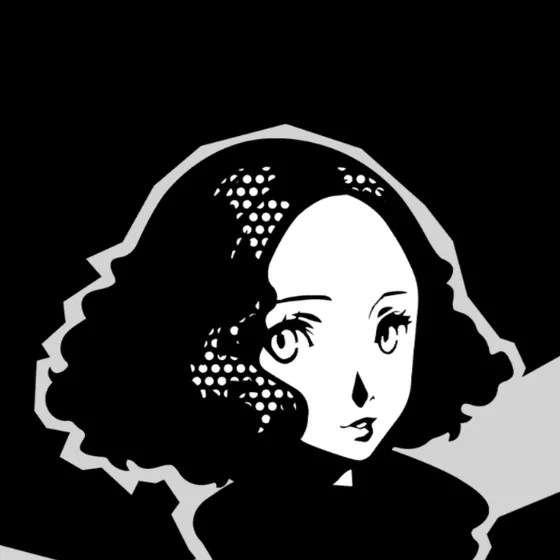
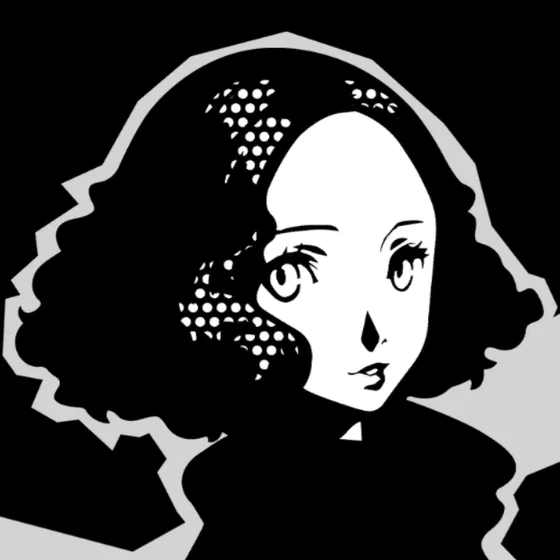
Volver al mismo lugar, seguimiento de progreso en orden y siluetas reencuadradas
- Botón «Volver» en las fichas de confidente y de Persona: vuelve a la lista en el
  mismo lugar y con los mismos filtros (también con el botón atrás del navegador)
- Seguimiento: los rangos se marcan en orden, pasa solo al siguiente, botón para
  reiniciar y se guarda en el navegador; si el rango 1 no tiene respuestas, se da por hecho
- Igor, Morgana, Makoto, Haru, Ann, Caroline y Justine y Oda: más zoom y la cara más arriba
- Consejo de Akechi sin spoiler

Claude-Session: https://claude.ai/code/session_01TLD9DxtzdAPGjt2ektcgBd

Changed region(s): [[0.0, 0.0607, 1.0, 1.0]]

diff --git a/src/games/p5r/pages/ConfidantProfile.tsx b/src/games/p5r/pages/ConfidantProfile.tsx
@@ -1,5 +1,6 @@
 import { useEffect, useState } from 'react';
 import { Link, useParams } from 'react-router-dom';
+import { BackButton } from '../../../shared/components/BackButton';
 import { ImagePlaceholder } from '../../../shared/components/ImagePlaceholder';
 import { confidantImage } from '../services/images';
 import { getArcana } from '../data/arcana';
@@ -222,12 +223,43 @@ function UltimateBox({ summary }: { summary: ConfidantSummary }) {
   );
 }
 
+/* ---------- Seguimiento de progreso (se guarda en este navegador) ---------- */
+
+interface Progress {
+  tracking: boolean;
+  reached: number;
+}
+const progressKey = (id: string) => `pgr.progress.${id}`;
+function loadProgress(id: string): Progress {
+  try {
+    const raw = localStorage.getItem(progressKey(id));
+    if (raw) return JSON.parse(raw) as Progress;
+  } catch {
+    /* sin almacenamiento */
+  }
+  return { tracking: false, reached: 0 };
+}
+function saveProgress(id: string, p: Progress) {
+  try {
+    localStorage.setItem(progressKey(id), JSON.stringify(p));
+  } catch {
+    /* sin almacenamiento: el progreso dura mientras la página esté abierta */
+  }
+}
+
 export default function ConfidantProfile() {
   const { confidantId = '' } = useParams();
   const [data, setData] = useState<Confidant | null | undefined>(undefined);
   const [sel, setSel] = useState(2);
   const [tracking, setTracking] = useState(false);
   const [reached, setReached] = useState(0);
+
+  useEffect(() => {
+    const saved = loadProgress(confidantId);
+    setTracking(saved.tracking);
+    setReached(saved.reached);
+    setSel(saved.tracking ? Math.min(saved.reached + 1, 10) : 2);
+  }, [confidantId]);
 
   useEffect(() => {
     let alive = true;
@@ -255,8 +287,43 @@ export default function ConfidantProfile() {
   const ranks = Array.from({ length: maxRank }, (_, i) => i + 1);
   const thiefPersona = summary.persona ? getPersona(summary.persona) : undefined;
 
+  // Un rango «sin respuestas» (nada que elegir en la ficha) se puede dar por hecho al empezar
+  const hasAnswers = (n: number) =>
+    data?.ranks.find((r) => r.rank === n)?.conversations.some((c) => c.kind !== 'mementos') ?? false;
+  const startReached = () => (hasAnswers(1) ? 0 : 1);
+  const persist = (t: boolean, r: number) => saveProgress(confidantId, { tracking: t, reached: r });
+  const goTo = (r: number) => setSel(Math.min(r + 1, maxRank));
+
+  const toggleTracking = () => {
+    if (tracking) {
+      setTracking(false);
+      persist(false, reached);
+      return;
+    }
+    const r = reached > 0 ? reached : startReached();
+    setTracking(true);
+    setReached(r);
+    goTo(r);
+    persist(true, r);
+  };
+  const markReached = () => {
+    if (sel !== reached + 1) return;
+    setReached(sel);
+    persist(true, sel);
+    if (sel < maxRank) setSel(sel + 1);
+  };
+  const resetProgress = () => {
+    const r = startReached();
+    setReached(r);
+    goTo(r);
+    persist(true, r);
+  };
+
   return (
     <article>
+      <div className={`container ${styles.back}`}>
+        <BackButton fallback="/p5r/confidentes" />
+      </div>
       <section className={styles.hero}>
         <div className={styles.heroSlab} aria-hidden="true" />
         <div className={`container ${styles.heroInner}`}>
@@ -287,7 +354,7 @@ export default function ConfidantProfile() {
                 role="switch"
                 aria-checked={tracking}
                 aria-label="Seguimiento de progreso"
-                onClick={() => setTracking((v) => !v)}
+                onClick={toggleTracking}
                 className={`${styles.switch} ${tracking ? styles.switchOn : ''}`}
               >
                 <span />
@@ -295,7 +362,7 @@ export default function ConfidantProfile() {
               <span className={styles.trackLabel}>
                 Seguimiento de progreso: {tracking ? 'activado' : 'desactivado'}
               </span>
-              <span className={styles.trackNote}>Vista previa · se guardará con tu cuenta (v2)</span>
+              <span className={styles.trackNote}>Se guarda en este navegador · con tu cuenta en la v2</span>
             </div>
             )}
           </div>
@@ -370,8 +437,23 @@ export default function ConfidantProfile() {
             <span className={styles.progressTrack}>
               <span style={{ width: `${(reached / maxRank) * 100}%` }} />
             </span>
-            <button type="button" className="btn btn--accent" onClick={() => setReached((r) => Math.max(r, sel))}>
-              Marcar rango {sel} como alcanzado
+            {reached >= maxRank ? (
+              <span className={styles.progressDone}>¡Confidente al máximo!</span>
+            ) : sel === reached + 1 ? (
+              <button type="button" className="btn btn--accent" onClick={markReached}>
+                Marcar rango {sel} como alcanzado
+              </button>
+            ) : sel <= reached ? (
+              <button type="button" className="btn btn--accent" disabled>
+                Rango {sel} alcanzado ✓
+              </button>
+            ) : (
+              <button type="button" className="btn btn--light" onClick={() => setSel(reached + 1)}>
+                Primero el rango {reached + 1}: ir
+              </button>
+            )}
+            <button type="button" className={`btn btn--light ${styles.resetBtn}`} onClick={resetProgress}>
+              Reiniciar progreso
             </button>
           </div>
         )}

diff --git a/src/app/ScrollToTop.tsx b/src/app/ScrollToTop.tsx
@@ -1,11 +1,55 @@
-import { useEffect } from 'react';
-import { useLocation } from 'react-router-dom';
+import { useEffect, useLayoutEffect } from 'react';
+import { useLocation, useNavigationType } from 'react-router-dom';
 
-/** Vuelve arriba de todo al cambiar de página. */
+const KEY = (k: string) => `pgr.scroll.${k}`;
+
+function read(key: string): number {
+  try {
+    return Number(sessionStorage.getItem(KEY(key))) || 0;
+  } catch {
+    return 0;
+  }
+}
+
+/**
+ * Al cambiar de página vuelve arriba de todo. Si se vuelve atrás (o adelante)
+ * con el navegador o con el botón «Volver», deja la página donde estaba.
+ */
 export function ScrollToTop() {
-  const { pathname } = useLocation();
+  const location = useLocation();
+  const navType = useNavigationType();
+
+  // Guarda la posición de esta página mientras se recorre
+  useLayoutEffect(() => {
+    const save = () => {
+      try {
+        sessionStorage.setItem(KEY(location.key), String(Math.round(window.scrollY)));
+      } catch {
+        /* sin almacenamiento: no pasa nada */
+      }
+    };
+    window.addEventListener('scroll', save, { passive: true });
+    return () => window.removeEventListener('scroll', save);
+  }, [location.key]);
+
   useEffect(() => {
-    window.scrollTo(0, 0);
-  }, [pathname]);
+    if (navType !== 'POP') {
+      window.scrollTo(0, 0);
+      return;
+    }
+    // La página puede tardar en armarse: se reintenta hasta que haya lugar para bajar
+    const y = read(location.key);
+    let tries = 0;
+    const id = window.setInterval(() => {
+      tries++;
+      const room = document.documentElement.scrollHeight - window.innerHeight;
+      if (room >= y || tries > 40) {
+        window.scrollTo(0, y);
+        window.clearInterval(id);
+      }
+    }, 50);
+    return () => window.clearInterval(id);
+  }, [location.key, navType]);
+
   return null;
 }

diff --git a/src/games/p5r/pages/Catalog.tsx b/src/games/p5r/pages/Catalog.tsx
@@ -1,4 +1,5 @@
-import { useMemo, useState } from 'react';
+import { useMemo } from 'react';
+import { useSessionState } from '../../../shared/hooks/useSessionState';
 import { CalculatorHeader } from '../components/CalculatorHeader';
 import { PersonaCard } from '../components/PersonaCard';
 import { ARCANAS } from '../data/arcana';
@@ -13,9 +14,9 @@ import {
 import styles from './Catalog.module.css';
 
 export default function Catalog() {
-  const [f, setF] = useState<CatalogFilters>(DEFAULT_FILTERS);
+  const [f, setF] = useSessionState<CatalogFilters>('catalog.filters', DEFAULT_FILTERS);
   const all = getCatalogPersonas();
-  const [spoilerFilters, setSpoilerFilters] = useState(false);
+  const [spoilerFilters, setSpoilerFilters] = useSessionState('catalog.spoilerFilters', false);
   const list = useMemo(() => filterPersonas(all, f), [all, f]);
 
   const set = <K extends keyof CatalogFilters>(key: K, value: CatalogFilters[K]) =>

diff --git a/src/games/p5r/pages/Confidants.tsx b/src/games/p5r/pages/Confidants.tsx
@@ -1,4 +1,5 @@
-import { useMemo, useState } from 'react';
+import { useMemo } from 'react';
+import { useSessionState } from '../../../shared/hooks/useSessionState';
 import { Link } from 'react-router-dom';
 import { ImagePlaceholder } from '../../../shared/components/ImagePlaceholder';
 import { confidantImage } from '../services/images';
@@ -19,9 +20,9 @@ const TAG_CLASS: Partial<Record<ConfidantTag, string>> = {
 const isSpecial = (kind: string) => kind !== 'normal';
 
 export default function Confidants() {
-  const [group, setGroup] = useState<Group>('all');
-  const [tag, setTag] = useState<ConfidantTag | null>(null);
-  const [q, setQ] = useState('');
+  const [group, setGroup] = useSessionState<Group>('confidants.group', 'all');
+  const [tag, setTag] = useSessionState<ConfidantTag | null>('confidants.tag', null);
+  const [q, setQ] = useSessionState('confidants.q', '');
 
   const counts = {
     all: CONFIDANTS.length,

diff --git a/src/games/p5r/pages/PersonaProfile.tsx b/src/games/p5r/pages/PersonaProfile.tsx
@@ -1,6 +1,7 @@
 import { useMemo } from 'react';
 import { Link, useParams } from 'react-router-dom';
 import { getFusionEngine } from '../services/fusion';
+import { BackButton } from '../../../shared/components/BackButton';
 import { ImagePlaceholder } from '../../../shared/components/ImagePlaceholder';
 import { personaImage } from '../services/images';
 import { SectionTitle } from '../../../shared/components/SectionTitle';
@@ -135,7 +136,7 @@ export default function PersonaProfile() {
   return (
     <article>
       <div className={`container ${styles.back}`}>
-        <Link to="/p5r/calculadora" className="label">← Volver al catálogo</Link>
+        <BackButton fallback="/p5r/calculadora" />
       </div>
 
       <section className={`container ${styles.top}`}>

diff --git a/src/shared/hooks/useSessionState.ts b/src/shared/hooks/useSessionState.ts
@@ -1,0 +1,24 @@
+import { useEffect, useState } from 'react';
+
+/**
+ * Como useState, pero recuerda el valor mientras la pestaña esté abierta
+ * (para volver a una lista con los mismos filtros).
+ */
+export function useSessionState<T>(key: string, initial: T) {
+  const [value, setValue] = useState<T>(() => {
+    try {
+      const raw = sessionStorage.getItem(`pgr.state.${key}`);
+      return raw ? (JSON.parse(raw) as T) : initial;
+    } catch {
+      return initial;
+    }
+  });
+  useEffect(() => {
+    try {
+      sessionStorage.setItem(`pgr.state.${key}`, JSON.stringify(value));
+    } catch {
+      /* sin almacenamiento */
+    }
+  }, [key, value]);
+  return [value, setValue] as const;
+}

diff --git a/src/shared/components/BackButton.tsx b/src/shared/components/BackButton.tsx
@@ -1,0 +1,19 @@
+import { useNavigate } from 'react-router-dom';
+
+/**
+ * «← Volver»: vuelve a la página anterior en el mismo lugar donde estabas.
+ * Si se entró directo (sin página anterior), lleva a la página indicada.
+ */
+export function BackButton({ fallback, label = 'Volver', className }: { fallback: string; label?: string; className?: string }) {
+  const navigate = useNavigate();
+  const canGoBack = ((window.history.state as { idx?: number } | null)?.idx ?? 0) > 0;
+  return (
+    <button
+      type="button"
+      className={className ?? 'label back-btn'}
+      onClick={() => (canGoBack ? navigate(-1) : navigate(fallback))}
+    >
+      ← {label}
+    </button>
+  );
+}

diff --git a/src/shared/styles/global.css b/src/shared/styles/global.css
@@ -220,3 +220,20 @@ h3 {
   clip: rect(0 0 0 0);
   white-space: nowrap;
 }
+
+/* Botón «← Volver» */
+.back-btn {
+  padding: 0;
+  background: none;
+  border: 0;
+  color: var(--c-accent);
+  font-size: 17px;
+  cursor: pointer;
+}
+.back-btn:hover {
+  text-decoration: underline;
+}
+.btn:disabled {
+  opacity: 0.65;
+  cursor: default;
+}

diff --git a/src/games/p5r/pages/ConfidantProfile.module.css b/src/games/p5r/pages/ConfidantProfile.module.css
@@ -767,3 +767,18 @@
   text-transform: uppercase;
   color: #8a8a84;
 }
+
+.back {
+  padding-block: 20px 14px;
+}
+.progressDone {
+  font-family: var(--f-label);
+  font-weight: 800;
+  font-size: 18px;
+  text-transform: uppercase;
+  color: var(--c-accent);
+}
+.resetBtn {
+  padding-inline: 14px;
+  font-size: 15px;
+}

diff --git a/docs/ETAPA-4-confidentes.md b/docs/ETAPA-4-confidentes.md
@@ -62,5 +62,5 @@ Diseño aprobado en el lienzo (tableros 05, 09 y 10).
   - Títulos de las misiones de Mementos en español. Oda rango 5 (notas musicales).
   - Ohya y Chihaya: rangos de la Megami Tensei Wiki, que coinciden con el orden de la pantalla del juego.
 - Akechi: los rangos 1, 3, 5, 6, 8 y 9 no dan nada; Mediación zalamera, Golpe de gracia, Protección y Último aliento
-  los recibe al unirse a los Ladrones Fantasma. Sin detalles de los rangos 9 y 10 (spoilers fuertes).
+  los obtiene más adelante (el consejo no dice cuándo: spoiler). Sin detalles de los rangos 9 y 10 (spoilers fuertes).
 - Falta: Ann, ¿tiene requisito de atributo?

diff --git a/docs/FOTOS-PERSONAS.md b/docs/FOTOS-PERSONAS.md
@@ -13,3 +13,6 @@ Fotos de Juan, sacadas del juego:
 
 - Una sola foto por confidente (retrato de la ficha y de la tarjeta del índice): la silueta de la pantalla
   de habilidades del juego (`<nombre>-full.png`), recortada en cuadrado. Quedan en `assets/confidants/<id>.webp`.
+- Recorte de las siluetas: (1090, 50, 1790, 750) de la captura de 1919×1079. Igor, Morgana, Makoto, Haru, Ann,
+  Caroline y Justine y Oda usan (1130, 170, 1750, 790): más zoom y la cara más arriba (pedido de Juan).
+- Caroline y Justine: la foto se cambiará por spoilers; irá un botón en la esquina para alternar imágenes.
